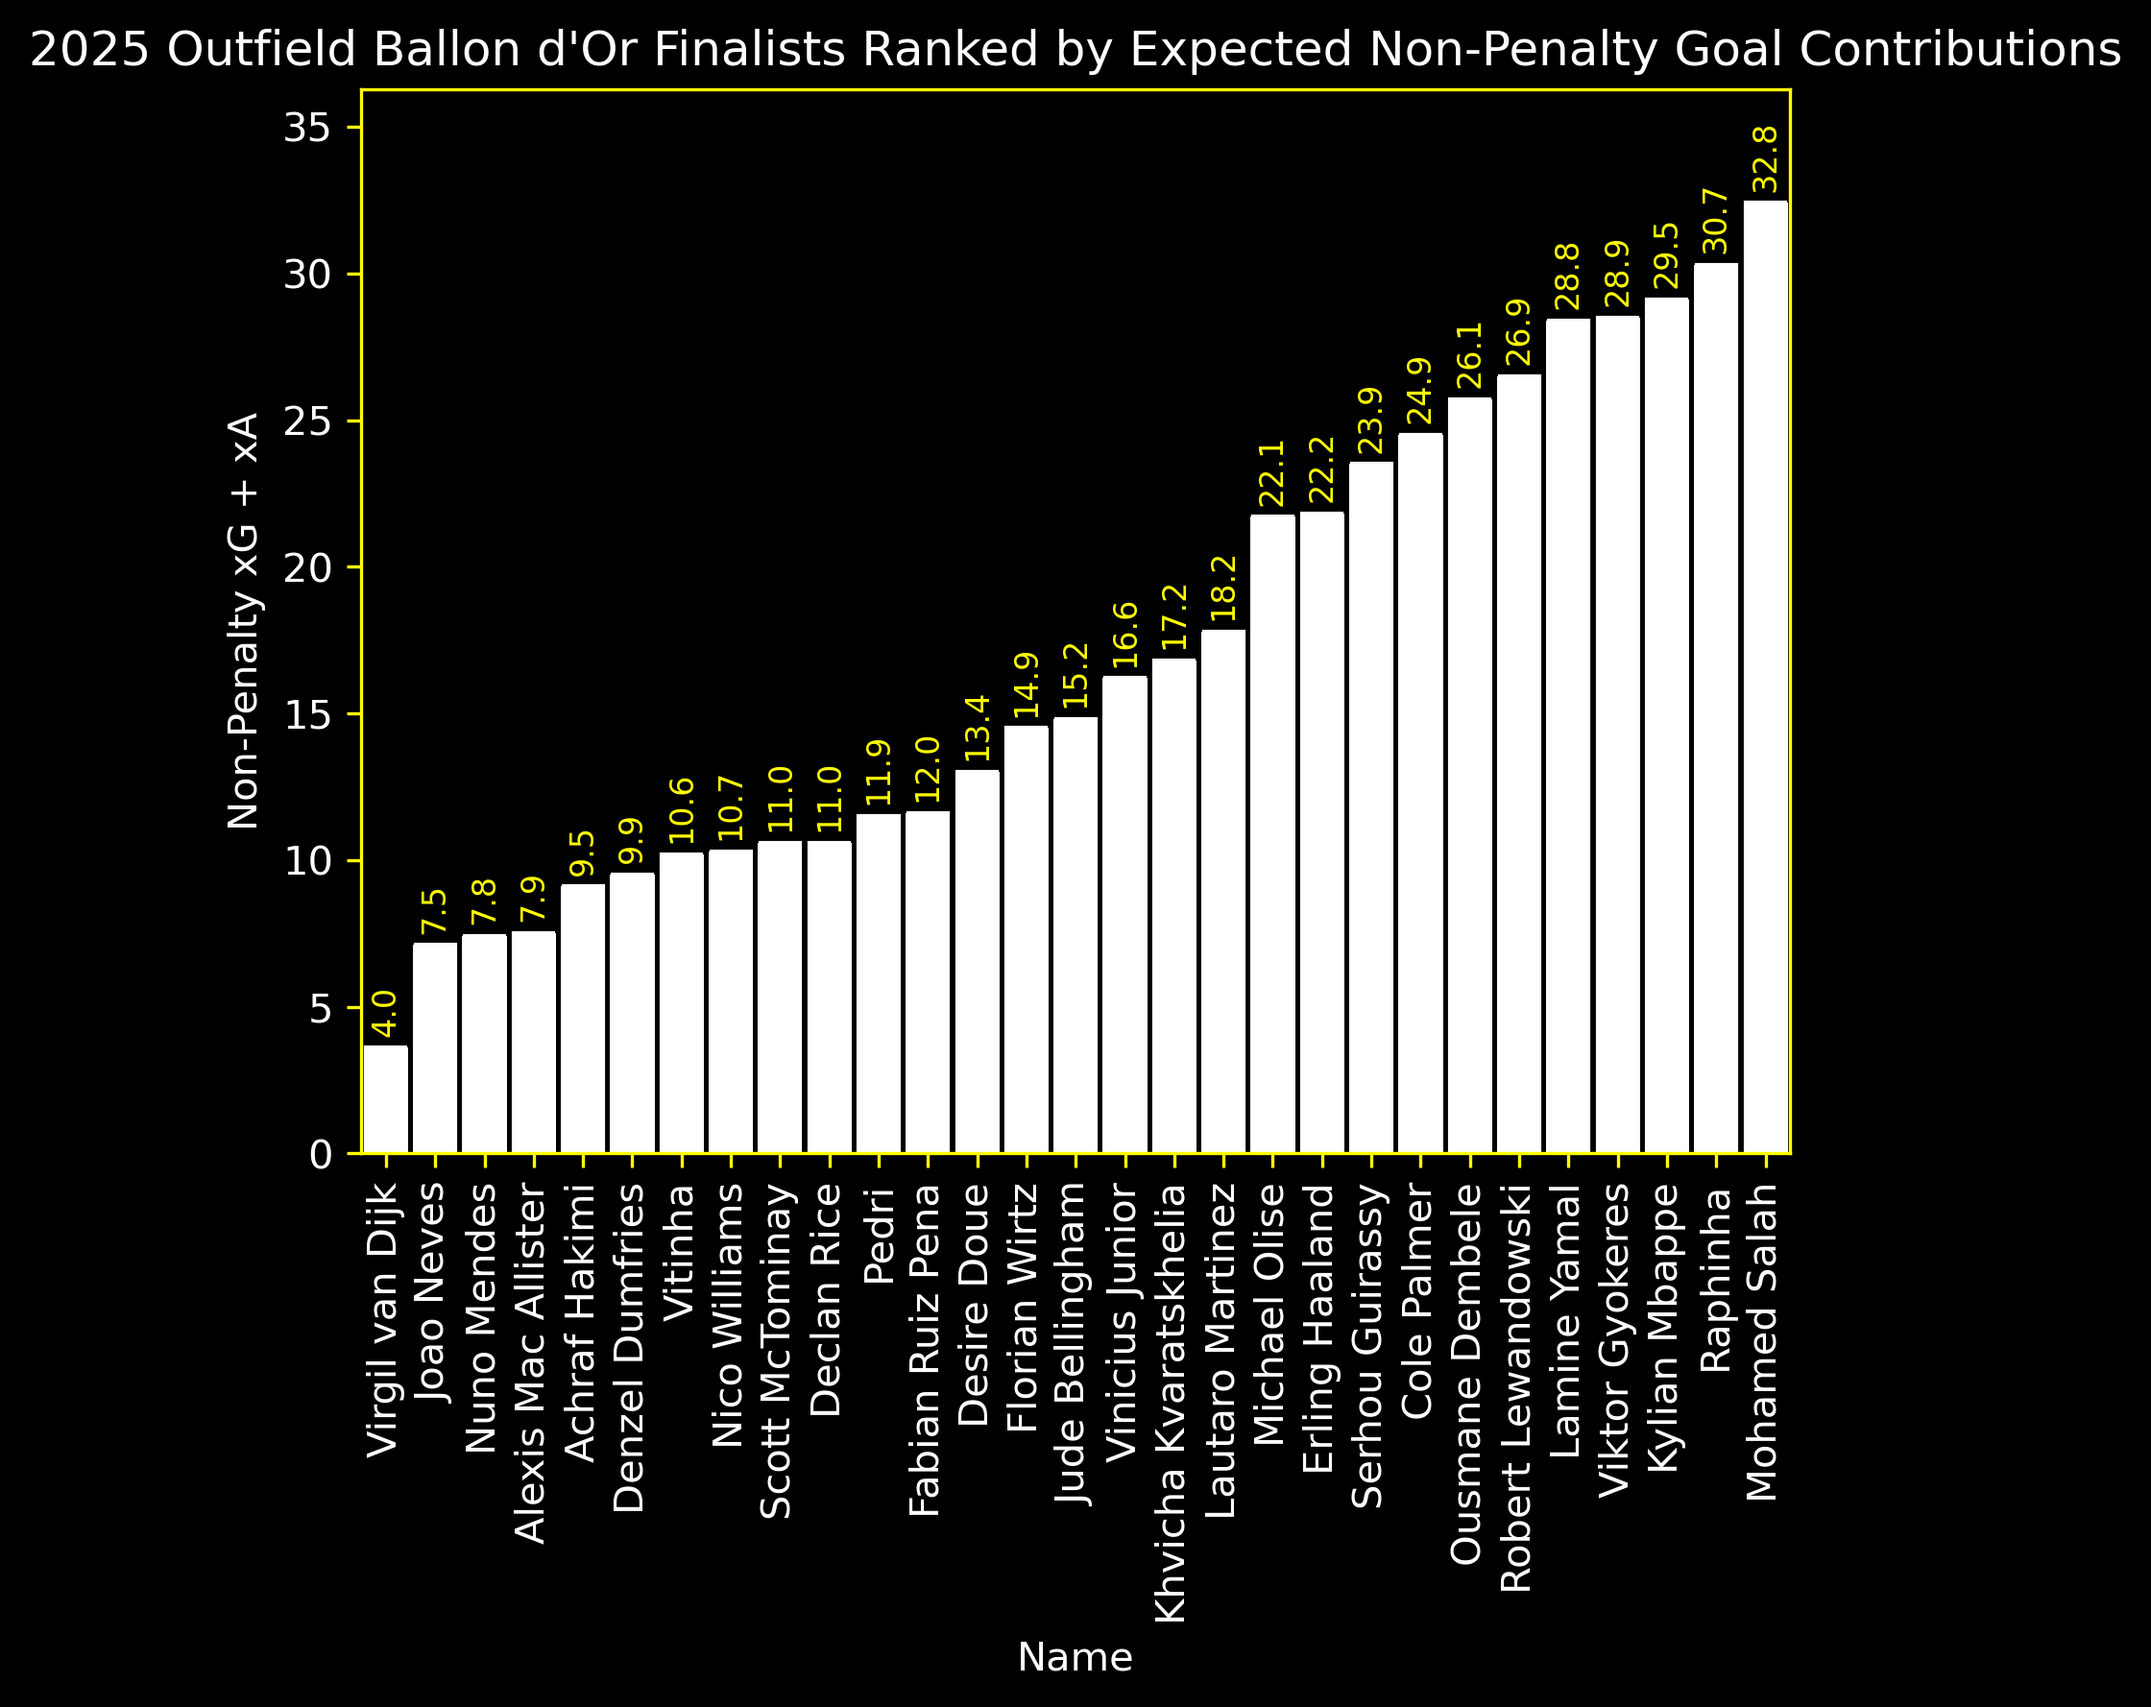
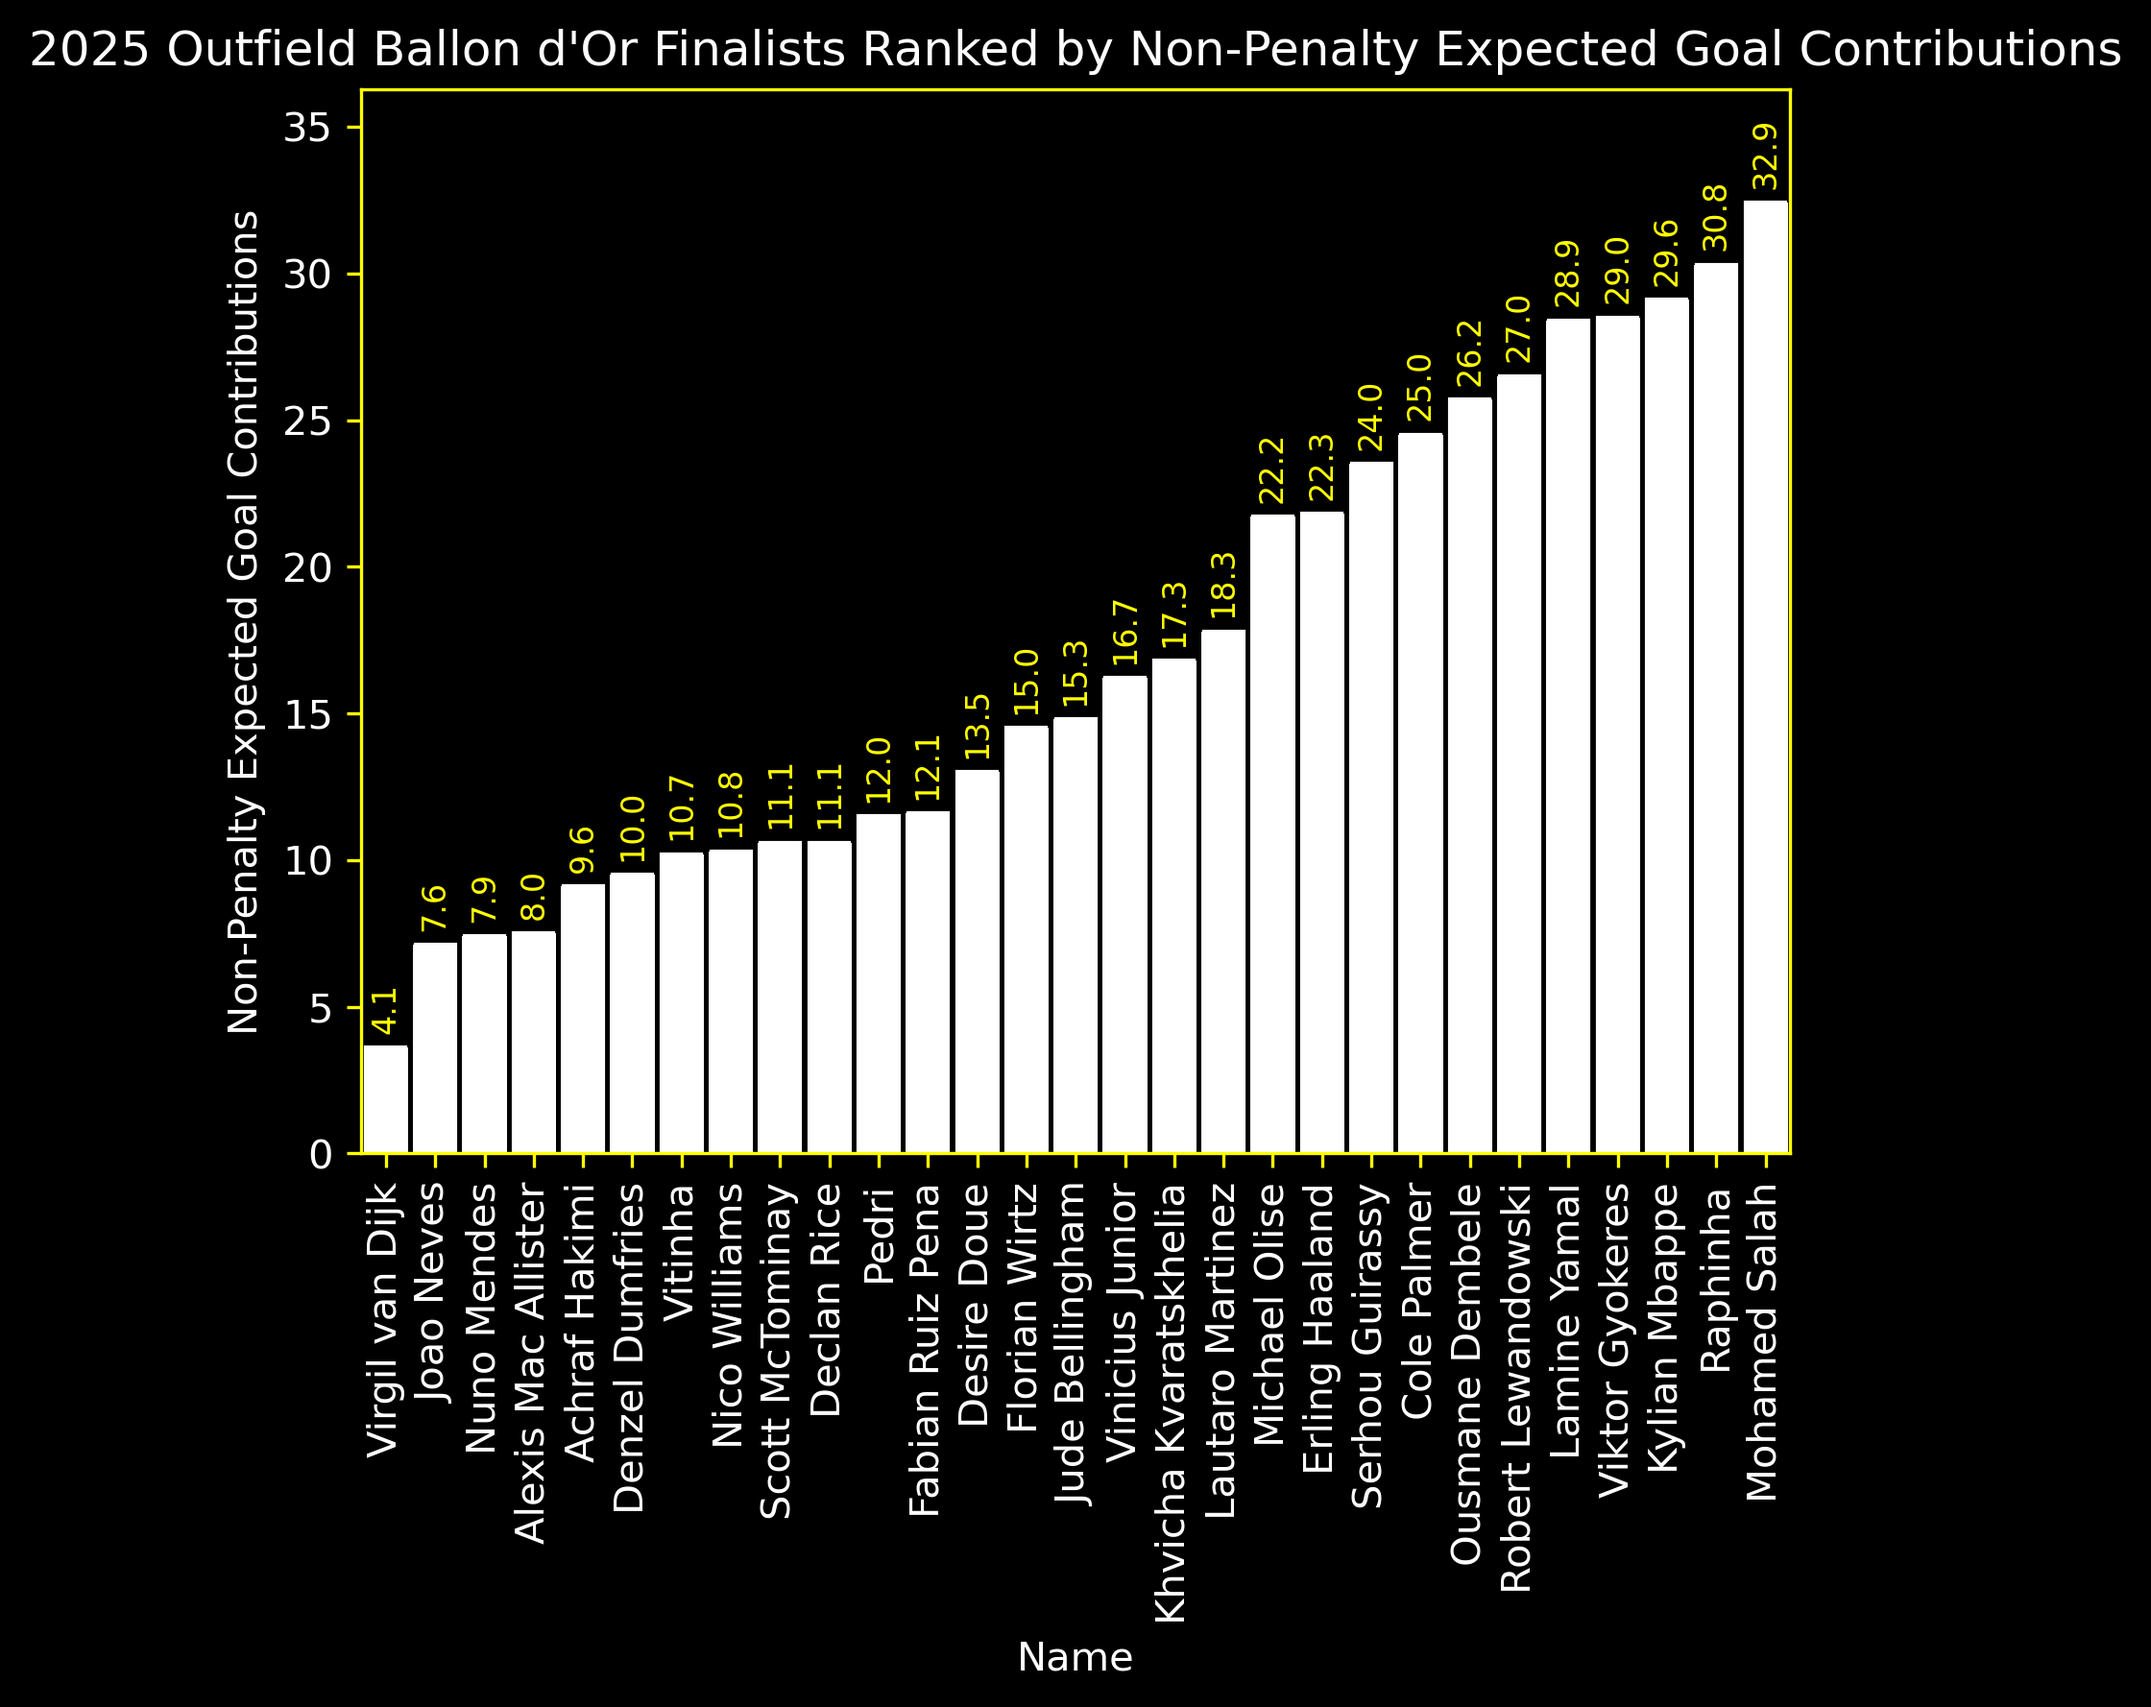
changed to function for graph biulding and adjusted graph appearances

diff --git a/analysis/preliminary/basicgraphs.py b/analysis/preliminary/basicgraphs.py
@@ -3,50 +3,54 @@ import sklearn
 import matplotlib.pyplot as plt
 
 data = pd.read_csv('data/2425_outfield_finalists.csv')
+data['Per 90 Minutes_npxG+xAG'] = data['Expected_npxG+xAG'] / data['Playing Time_90s']
 
-data = data.sort_values(by='Expected_npxG+xAG')
+def bar_graph(df, x_col, y_col, xlabel, ylabel, title, graph_name):
+    df = df.sort_values(by=y_col)
 
-plt.rcParams['font.family'] = 'DejaVu Sans'
+    plt.rcParams['font.family'] = 'DejaVu Sans'
 
-plt.bar(data['player'],data['Expected_npxG+xAG'])
-plt.xlabel('Name')
-plt.ylabel('Non-Penalty xG + xA')
-plt.title("2025 Outfield Ballon d'Or Finalists Ranked by Expected Non-Penalty Goal Contributions")
-plt.xticks(rotation=90)
+    plt.bar(df[x_col], df[y_col])
+    plt.xticks(rotation=90)
 
-fig = plt.gcf()
-ax = plt.gca()
+    fig = plt.gcf()
+    ax = plt.gca()
 
-fig.patch.set_facecolor('black')
-ax.set_facecolor('black')
+    fig.patch.set_facecolor('black')
+    ax.set_facecolor('black')
 
-for bar in ax.patches:
-    bar.set_color('white')
+    for bar in ax.patches:
+        bar.set_color('white')
 
-for spine in ax.spines.values():
-    spine.set_color('yellow')
+    for spine in ax.spines.values():
+        spine.set_color('yellow')
 
-ax.tick_params(axis='x', colors='white', which='both', direction='out')
-ax.tick_params(axis='y', colors='white', which='both', direction='out')
-ax.xaxis.set_tick_params(color='yellow')
-ax.yaxis.set_tick_params(color='yellow')
+    ax.tick_params(axis='x', colors='white', which='both', direction='out')
+    ax.tick_params(axis='y', colors='white', which='both', direction='out')
+    ax.xaxis.set_tick_params(color='yellow')
+    ax.yaxis.set_tick_params(color='yellow')
 
-ax.set_xlabel("Name", color='white')
-ax.set_ylabel("Non-Penalty xG + xA", color='white')
-ax.set_title("2025 Outfield Ballon d'Or Finalists Ranked by Expected Non-Penalty Goal Contributions", color='white')
+    ax.set_xlabel(xlabel, color='white')
+    ax.set_ylabel(ylabel, color='white')
+    ax.set_title(title, color='white')
 
-for bar in ax.patches:
-    height = bar.get_height() + 0.4
-    ax.text(
-        bar.get_x() + bar.get_width() / 2, height,
-        f'{height:.1f}',
-        ha='center', va='bottom', color='yellow', fontsize=8, rotation=90
-    )
+    max_bar_height = ax.patches[-1].get_height()
 
-ax.set_ylim(0, max(data['Expected_npxG+xAG']) * 1.12)
+    for bar in ax.patches:
+        height = bar.get_height() + max_bar_height * 0.015
+        ax.text(
+            bar.get_x() + bar.get_width() / 2, height,
+            f'{height:.1f}',
+            ha='center', va='bottom', color='yellow', fontsize=8, rotation=90
+        )
 
-bars = ax.bar(data['player'], data['Expected_npxG+xAG'], color='white', width=0.9)
-ax.set_xlim(-0.5, len(data['player']) - 0.5)
+    ax.set_ylim(0, max(df[y_col]) * 1.12)
 
-plt.savefig('analysis/graphs/nonpenxgxa.png', dpi=300, bbox_inches='tight')
-plt.close()
+    bars = ax.bar(df[x_col], df[y_col], color='white', width=0.9)
+    ax.set_xlim(-0.5, len(df[x_col]) - 0.5)
+
+    plt.savefig(f'analysis/graphs/{graph_name}.png', dpi=300, bbox_inches='tight')
+    plt.close()
+
+bar_graph(data, 'player', 'Expected_npxG+xAG', 'Name','Non-Penalty Expected Goal Contributions', "2025 Outfield Ballon d'Or Finalists Ranked by Non-Penalty Expected Goal Contributions",'nonpenxgxa')
+bar_graph(data, 'player', 'Per 90 Minutes_npxG+xAG', 'Name','Non-Penalty Expected Goal Contributions Per 90', "2025 Outfield Ballon d'Or Finalists Ranked by Non-Penalty Expected Goal Contributions Per 90",'nonpenxgxaper90')
